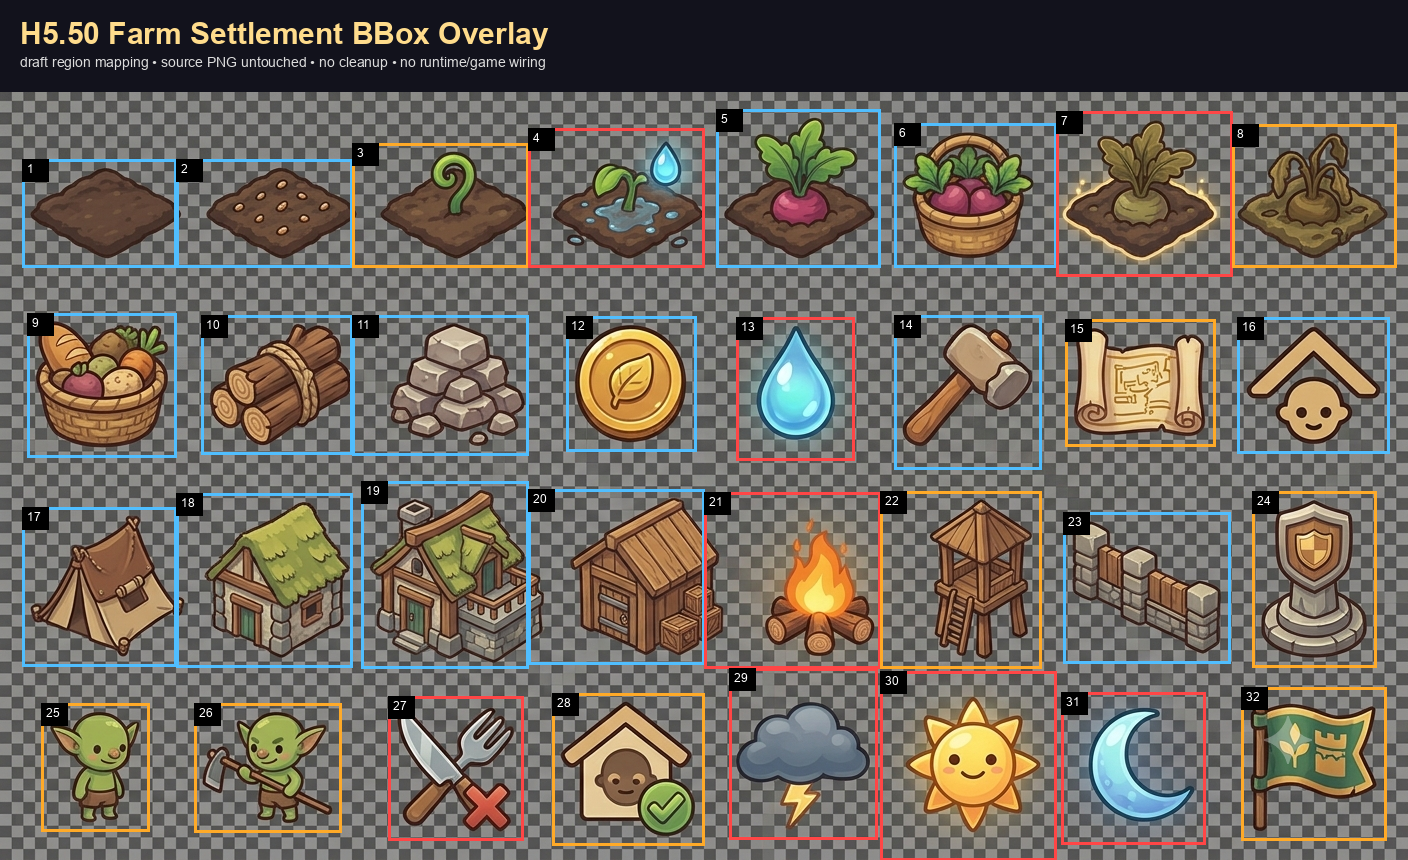
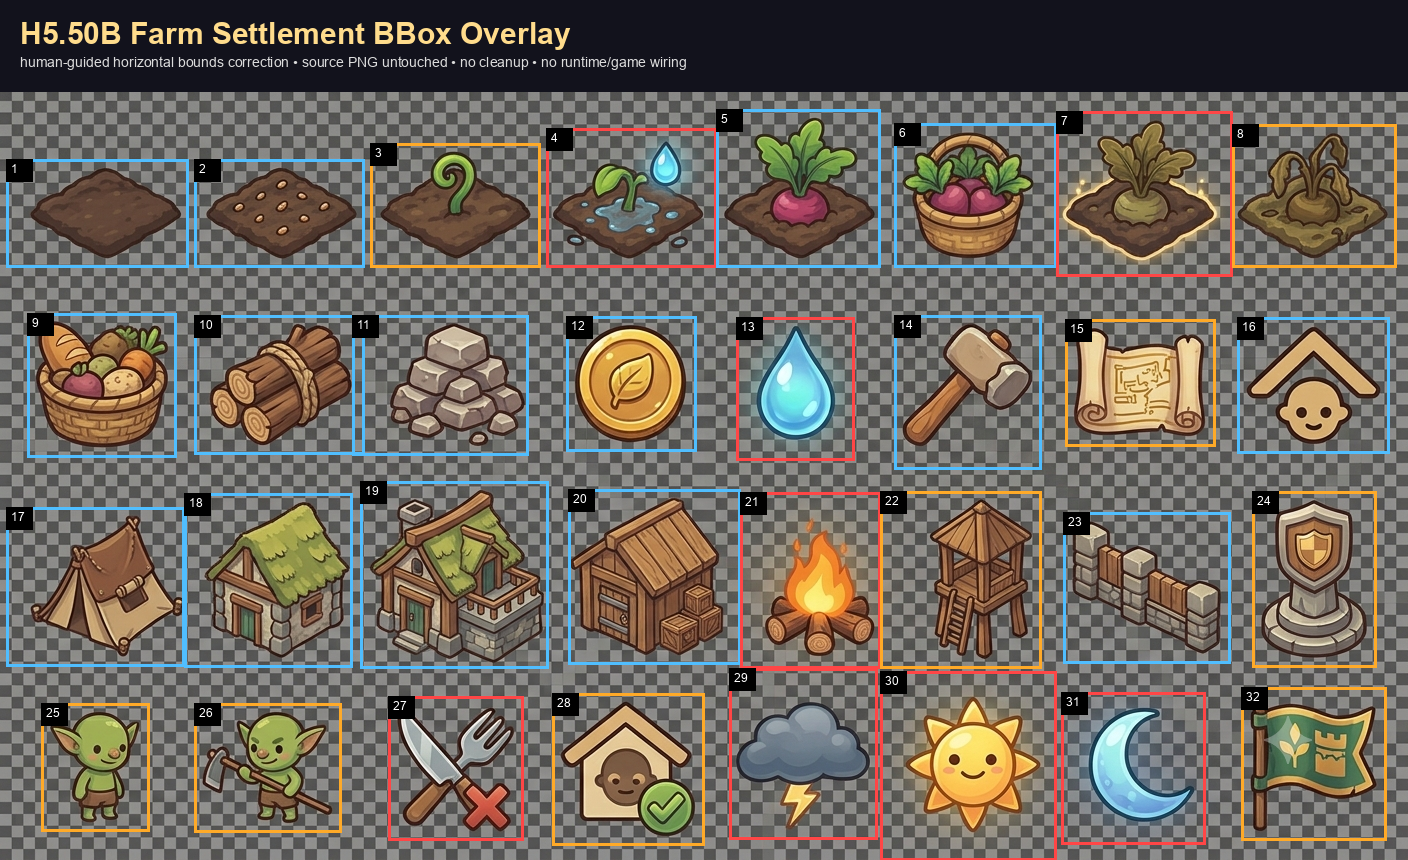
docs: correct farm settlement region bounds

diff --git a/docs/assets/TINY_GOBLIN_ACADEMY_H5_50B_FARM_SETTLEMENT_BOUNDS_CORRECTION.md b/docs/assets/TINY_GOBLIN_ACADEMY_H5_50B_FARM_SETTLEMENT_BOUNDS_CORRECTION.md
@@ -1,0 +1,113 @@
+# Tiny Goblin Academy — H5.50B Farm Settlement Bounds Correction
+
+## 1. Purpose
+
+H5.50B corrects a small set of Farm Settlement sourceRects after human review of the H5.50 bbox overlay.
+
+This is a bounds correction pass only. It does not create cleanup output, modify the source PNG, approve runtime visuals, perform functional slot mapping, define settlement gameplay, or wire Farm Settlement assets into runtime.
+
+## 2. Human Review Finding
+
+Human review initially flagged eight regions:
+
+```text
+1, 2, 3, 4, 10, 17, 19, 20
+```
+
+The issue was horizontal bounds only:
+
+- regions 1, 2, 3, and 4 touched or clipped the right edge of the plot art;
+- region 10 needed right-side padding around the log bundle;
+- region 17 needed right-side padding so the tent pin/edge was not clipped;
+- region 19 needed right-side padding because the large farmhouse extended into the next cell;
+- region 20 had too much left-side padding and was capturing bleed from region 19.
+
+Follow-up review also tuned:
+
+```text
+18, 21
+```
+
+Region 18 was adjusted because the 17/18 shared boundary needed to move right. Region 21 was adjusted because it was capturing bleed from region 20. No vertical padding changes were requested or applied.
+
+## 3. Correction Method
+
+The existing Farm Settlement manifest was updated in place:
+
+```text
+manifests/academy.farm-settlement.regions.json
+```
+
+Corrected sourceRects:
+
+```text
+1  farm-settlement.soil-plot-empty          x=6,   y=67,  w=182, h=108
+2  farm-settlement.soil-plot-seeded         x=194, y=67,  w=170, h=108
+3  farm-settlement.soil-plot-sprout         x=370, y=51,  w=170, h=124
+4  farm-settlement.soil-plot-watered-sprout x=546, y=36,  w=170, h=139
+10 farm-settlement.wood-log-bundle          x=194, y=223, w=170, h=139
+17 farm-settlement.tent                     x=6,   y=415, w=178, h=159
+18 farm-settlement.small-farmhouse          x=184, y=401, w=168, h=174
+19 farm-settlement.large-farmhouse          x=360, y=389, w=188, h=187
+20 farm-settlement.wood-shed                x=568, y=397, w=172, h=175
+21 farm-settlement.campfire                 x=740, y=400, w=140, h=176
+```
+
+Region 20 was shifted right to remove neighboring-house bleed from region 19, then extended right until it meets the region 21 boundary. Region 21 was shifted right to stop capturing bleed from region 20.
+
+## 4. Evidence Regenerated
+
+Regenerated evidence folder:
+
+```text
+assets/academy/evidence/h5-50-farm-settlement-region-mapping/
+```
+
+Regenerated evidence:
+
+```text
+farm-settlement-bbox-overlay.png
+farm-settlement-numbered-contact-sheet.png
+farm-settlement-region-table-preview.png
+```
+
+The source inspection preview remains valid and unchanged.
+
+## 5. Runtime Boundary
+
+The Farm Settlement manifest remains:
+
+```text
+status: draft
+reviewStatus: needs-human-review
+runtimeEligibility: not-runtime-approved
+```
+
+## 6. Non-Goals
+
+H5.50B does not:
+
+- modify the source PNG;
+- create cleanup output;
+- perform functional slot mapping;
+- create settlement gameplay logic;
+- wire runtime visuals;
+- change unrelated regions;
+- run Tauri/Rust/Cargo.
+
+## 7. Recommended Next Lane
+
+Recommended next lane:
+
+```text
+H5.51 — Farm Settlement Region Human Review
+```
+
+Tiny correction law:
+
+```text
+The crops did not need taller boxes.
+They needed room to breathe to the right.
+The shed stopped stealing the house.
+The campfire stopped stealing the shed.
+```

diff --git a/CHANGELOG.md b/CHANGELOG.md
@@ -4,6 +4,8 @@ All notable changes to this project will be documented in this file.
 
 ## Unreleased
 
+* **H5.50B Farm Settlement Bounds Correction**: Corrected horizontal sourceRect bounds for Farm Settlement regions 1, 2, 3, 4, 10, 17, 18, 19, 20, and 21 after human review flagged right-edge clipping and neighboring-asset bleed. Regenerated bbox/contact/table evidence; no vertical padding changes, cleanup, source PNG edits, gameplay logic, functional slot mapping, or runtime wiring occurred.
+
 * **H5.50 Farm Settlement Region Mapping**: Created a draft region manifest and evidence set for the Farm Settlement source sheet. Mapped 32 draft-review regions across crop states, resource props/icons, tools, buildings, terrain props, worker/animal symbols, and status/weather icons; confirmed the RGBA source is fully opaque fake transparency; no cleanup, functional slot mapping, gameplay logic, or runtime wiring occurred.
 
 * **H5.48C Potion Sorter Regenerated Source Cleanup Candidate**: Ingested Mega's regenerated Potion Sorter sheet as a new v0.2 source artifact, confirmed it is visually cleaner but still RGB/opaque fake transparency, remapped the 32 Potion Sorter regions to the 1698x926 source, regenerated the derived cleanup candidate and evidence, preserved caption exclusions, and kept the lane draft / needs-human-review / not-runtime-approved with no functional slot mapping or runtime wiring.
@@ -237,3 +239,12 @@ All notable changes to this project will be documented in this file.
 - Mapped 32 draft-review regions across crop states, resources, tools, buildings, terrain props, worker/animal symbols, and status/weather icons.
 - Generated bbox overlay, numbered contact sheet, region table preview, and source inspection evidence.
 - Cleanup, functional slot mapping, settlement gameplay logic, runtime visuals, and game wiring remain deferred.
+
+## H5.50B - Farm Settlement Bounds Correction
+
+- Corrected horizontal sourceRect bounds for regions 1, 2, 3, 4, 10, 17, 18, 19, 20, and 21.
+- Added right-side breathing room where assets touched or clipped the bbox edge.
+- Shifted region 20 right to remove neighboring-house bleed from region 19.
+- Shifted region 21 right to stop capturing region 20 bleed, and nudged the 17/18 shared boundary right.
+- Regenerated bbox overlay, numbered contact sheet, and region table preview.
+- No vertical padding changes, cleanup output, source PNG edits, gameplay logic, functional slot mapping, or runtime wiring occurred.

diff --git a/docs/assets/TINY_GOBLIN_ACADEMY_ASSET_SYSTEM_PLAN.md b/docs/assets/TINY_GOBLIN_ACADEMY_ASSET_SYSTEM_PLAN.md
@@ -608,3 +608,7 @@ H5.49 accepted the H5.48C regenerated Potion Sorter cleanup candidate for draft 
 H5.50 created the Farm Settlement draft region manifest from `assets/academy/games/farm-settlement/tga-farm-settlement-sheet-v0.1.png`. The source is 1408x768 RGBA, but alpha is fully opaque at 255/255, so the checkerboard-style background is baked/fake transparency.
 
 The pass mapped 32 draft-review regions across crop plots, crop states, resource props/icons, tools, buildings, terrain props, worker/animal symbols, and status/weather icons. No cleanup candidate was created. Functional slot mapping, settlement gameplay logic, runtime visuals, and game wiring remain deferred.
+
+## H5.50B Farm Settlement Bounds Correction Note
+
+H5.50B corrected horizontal bounds for Farm Settlement regions 1, 2, 3, 4, 10, 17, 18, 19, 20, and 21 after human review found right-edge clipping and neighboring-asset bleed. No vertical padding changes were made. Region 20 was shifted right to stop capturing part of region 19's farmhouse, region 21 was shifted right to stop capturing region 20 bleed, and the 17/18 shared boundary was nudged right. The manifest remains draft / needs-human-review / not-runtime-approved, and cleanup, functional slot mapping, settlement gameplay logic, runtime visuals, and game wiring remain deferred.

diff --git a/docs/assets/TINY_GOBLIN_ACADEMY_H5_50_FARM_SETTLEMENT_REGION_MAPPING.md b/docs/assets/TINY_GOBLIN_ACADEMY_H5_50_FARM_SETTLEMENT_REGION_MAPPING.md
@@ -145,6 +145,16 @@ Validation expectations:
 
 ## 10. Recommended Next Lane
 
+## H5.50B Correction Status
+
+Human review found that regions 1, 2, 3, 4, 10, 17, 19, and 20 needed horizontal bounds correction. H5.50B updated those sourceRects, regenerated the bbox/contact/table evidence, and left the manifest draft / needs-human-review / not-runtime-approved.
+
+Correction report:
+
+```text
+docs/assets/TINY_GOBLIN_ACADEMY_H5_50B_FARM_SETTLEMENT_BOUNDS_CORRECTION.md
+```
+
 Recommended next lane:
 
 ```text
